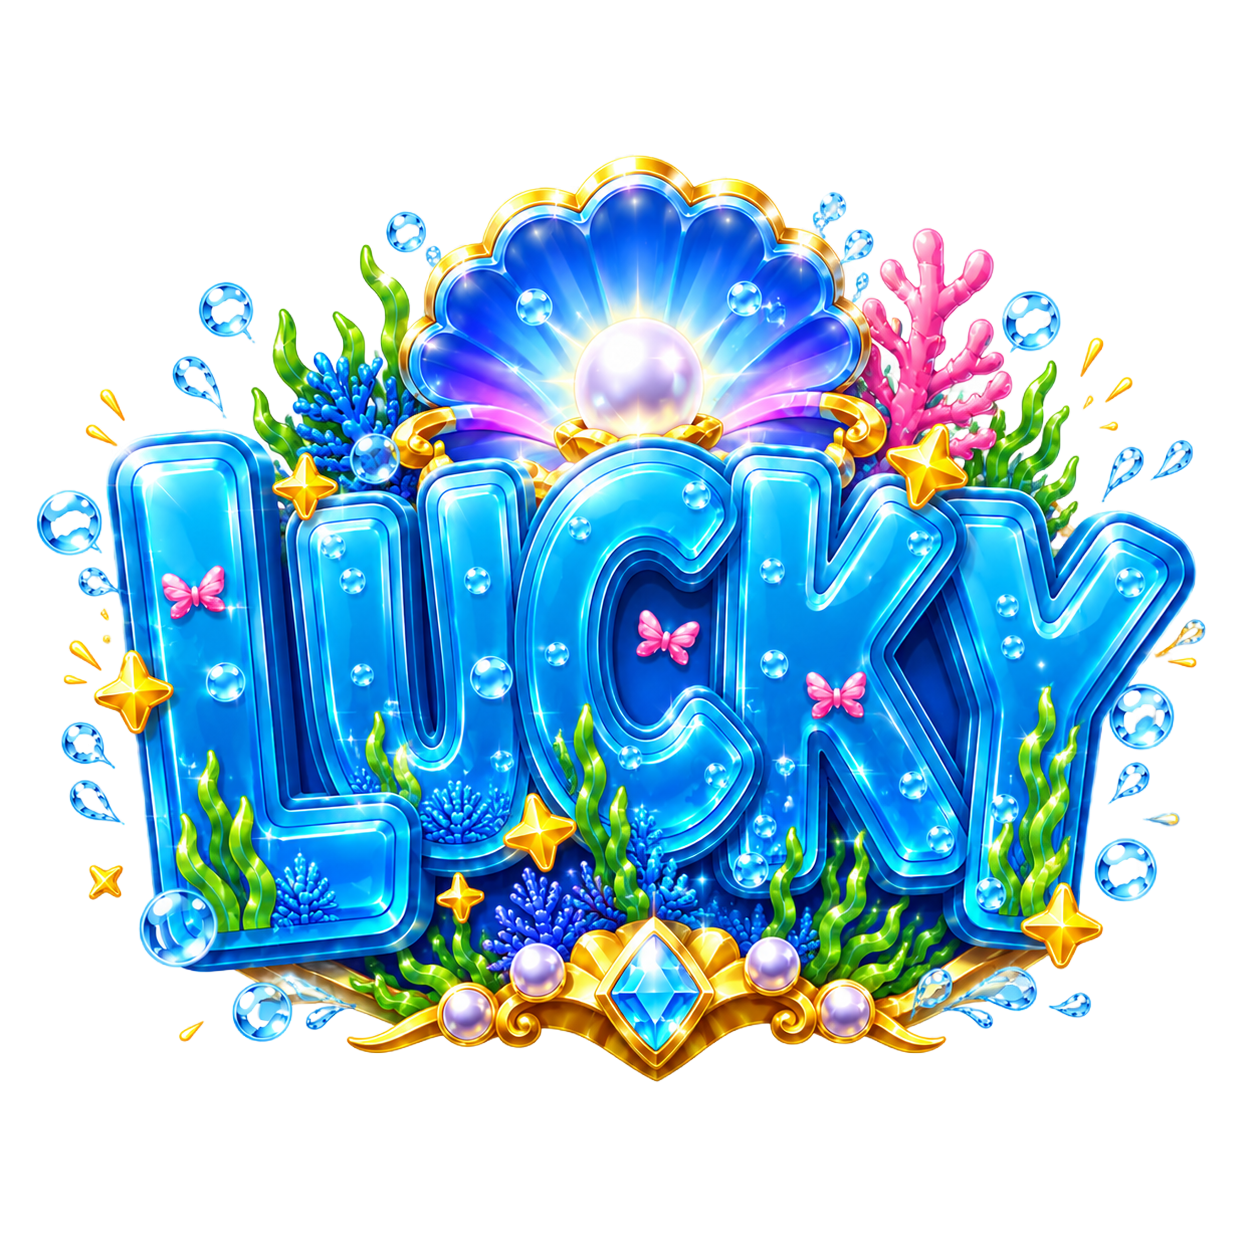
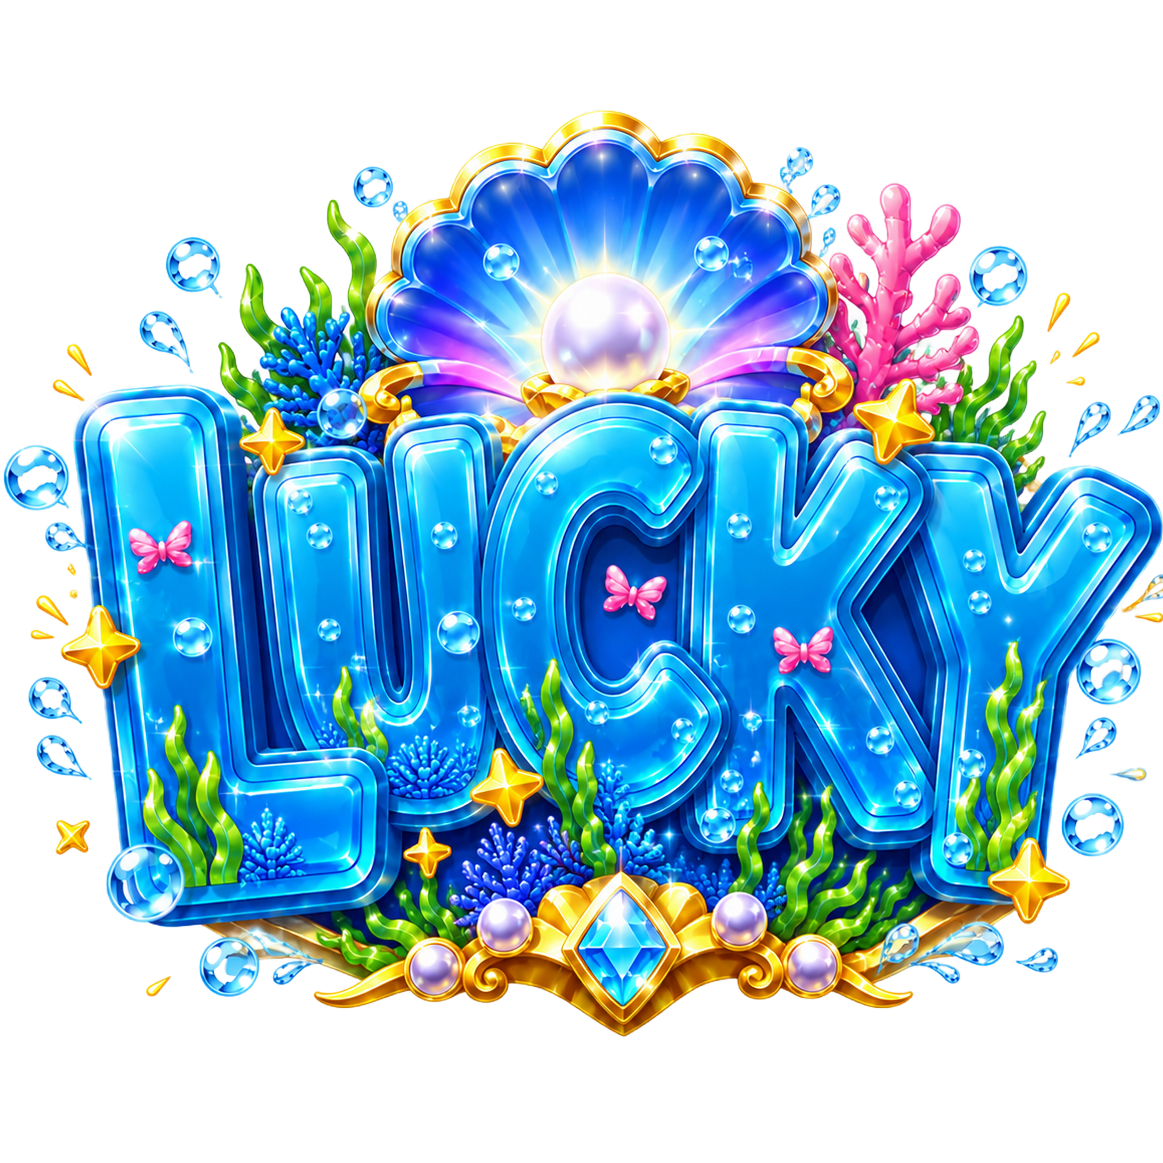
Refine Lucky visuals and timing

diff --git a/app/Arcade.tsx b/app/Arcade.tsx
@@ -6,6 +6,7 @@ import { PAYLINES, symbolFromRandom, type LuckyBonus, type SlotGrid, type SlotWi
 type Profile = { displayName: string; balance: number; demo: boolean; bonusClaimed?: boolean; promoClaimed?: boolean };
 type GameResult = Profile & { roll: number; won: boolean; delta: number };
 type SlotsResult = Profile & { grid: SlotGrid; wins: SlotWin[]; luckyBonus: LuckyBonus | null; payout: number; delta: number; bet: number };
+type LuckyCallout = { id: number; message: string; x: number; y: number; rotation: number; level: number };
 const START_GRID: SlotGrid = [["A", "K", "Q", "J", "10"], ["Q", "J", "10", "A", "K"], ["10", "A", "K", "Q", "J"]];
 const LINE_COLORS = ["#ffe06f", "#ff8fa7", "#80f0dd", "#9db7ff", "#f7a9ff"];
 
@@ -76,6 +77,7 @@ function PaylineCanvas({ wins }: { wins: SlotWin[] }) {
 export function Arcade() {
   const audioContextRef = useRef<AudioContext | null>(null);
   const luckyCountRef = useRef(0);
+  const luckyCalloutIdRef = useRef(0);
   const [profile, setProfile] = useState<Profile | null>(null);
   const [game, setGame] = useState<"slots" | "odd">("slots");
   const [choice, setChoice] = useState<"odd" | "even">("odd");
@@ -90,6 +92,7 @@ export function Arcade() {
   const [stoppedReels, setStoppedReels] = useState(5);
   const [luckyLandings, setLuckyLandings] = useState<Record<string, number>>({});
   const [luckyImpact, setLuckyImpact] = useState({ token: 0, level: 0 });
+  const [luckyCallouts, setLuckyCallouts] = useState<LuckyCallout[]>([]);
   const [suspenseLevel, setSuspenseLevel] = useState(0);
   const [bonusState, setBonusState] = useState<"idle" | "claiming" | "claimed">("idle");
   const [bonusMessage, setBonusMessage] = useState("");
@@ -163,7 +166,7 @@ export function Arcade() {
   async function spin() {
     playTone(260, .08, 0, "square", .025); playTone(390, .1, .07, "square", .025);
     luckyCountRef.current = 0;
-    setPlaying(true); setStoppedReels(0); setLuckyLandings({}); setLuckyImpact({ token: 0, level: 0 }); setSuspenseLevel(0); setGameError(""); setSlotsResult(null);
+    setPlaying(true); setStoppedReels(0); setLuckyLandings({}); setLuckyImpact({ token: 0, level: 0 }); setLuckyCallouts([]); setSuspenseLevel(0); setGameError(""); setSlotsResult(null);
     const startedAt = Date.now();
     let targetGrid: SlotGrid | null = null;
     let lockedReels = 0;
@@ -191,8 +194,14 @@ export function Arcade() {
             additions[cellKey] = luckyNumber;
             playLuckyHit(luckyNumber);
           });
+          const messages = ["OH, LUCKY YOU!", "DOUBLE TROUBLE!", "JACKPOT ENERGY!", "FORTUNE FAVORS YOU!", "ABSOLUTE BUFFOONERY!"];
+          const callouts = landedLuckies.map((_, luckyIndex) => {
+            const level = luckyCountRef.current + luckyIndex + 1;
+            return { id: ++luckyCalloutIdRef.current, message: messages[Math.min(level, messages.length) - 1], x: 14 + Math.random() * 72, y: 12 + Math.random() * 62, rotation: -12 + Math.random() * 24, level };
+          });
           luckyCountRef.current += landedLuckies.length;
           setLuckyLandings((current) => ({ ...current, ...additions }));
+          setLuckyCallouts((current) => [...current, ...callouts]);
           setLuckyImpact((current) => ({ token: current.token + 1, level: luckyCountRef.current }));
         }
         setStoppedReels(lockedReels);
@@ -200,7 +209,7 @@ export function Arcade() {
           reelIndex <= reel ? next.grid[rowIndex][reelIndex] : symbol
         )) as SlotGrid);
         if (reel < 4 && luckyCountRef.current > 0) {
-          const suspenseDelay = luckyCountRef.current >= 2 ? 1700 : 1150;
+          const suspenseDelay = luckyCountRef.current >= 2 ? 1700 : 350;
           setSuspenseLevel(luckyCountRef.current);
           if (luckyCountRef.current >= 2) playSuspenseSound(luckyCountRef.current, suspenseDelay);
           await new Promise((resolve) => window.setTimeout(resolve, suspenseDelay));
@@ -226,6 +235,7 @@ export function Arcade() {
 
   return <main className="site-shell">
     <div className="ambient" aria-hidden="true"><i /><i /><i /><i /><i /></div>
+    {luckyCallouts.map((callout) => <div className={`lucky-float-callout lucky-float-level-${Math.min(callout.level, 5)}`} key={callout.id} style={{ left: `${callout.x}%`, top: `${callout.y}%`, "--callout-rotation": `${callout.rotation}deg` } as React.CSSProperties} aria-hidden="true">{callout.message}</div>)}
     <button className={`bonus-bubble ${bonusState}`} type="button" onClick={() => void claimBonus()} disabled={bonusState !== "idle"} aria-label="Collect 30 bonus Suds"><span>{bonusState === "claiming" ? "…" : bonusState === "claimed" ? "✓" : "+30"}</span><small>{bonusMessage || "Suds"}</small></button>
     <header className="nav-shell"><a className="brand" href="#top" aria-label="BFNRY home"><span className="brand-mark"><b /></span><span><strong>BFNRY</strong><small>Whimsy online</small></span></a><nav aria-label="Primary navigation"><a className="active" href="#play">Play</a><a href="#pulse">Pulse</a><a href="#about">About</a></nav><div className="player-pill" aria-live="polite"><i /><span>{loading ? "Connecting…" : profile?.displayName ?? "Offline"}</span><strong>{profile ? `${profile.balance} Suds` : "—"}</strong></div></header>
     <section className="hero" id="top"><div className="hero-orbit" aria-hidden="true"><span /><span /><span /></div><p className="overline">Buffoonery Inc. Presents</p><h1>buffoonery,<br /><em>on the web</em></h1><p className="hero-copy">Magnus&apos; little haven for all buffoons to enjoy.</p><a className="hero-action" href="#play"><span>Enter the arcade</span><b>↓</b></a></section>
@@ -238,7 +248,7 @@ export function Arcade() {
         <div className="stage-head"><span>{PAYLINES.length} ways to make a splash</span><span>{suspenseLevel >= 2 ? "Hold your breath…" : slotsResult ? `${slotsResult.wins.length} line${slotsResult.wins.length === 1 ? "" : "s"} hit` : "Ready"}</span></div>
         <div className={`slot-machine ${playing ? "spinning" : ""} ${suspenseLevel >= 2 ? "lucky-suspense" : ""}`} aria-label="Three row by five reel slot result">
           <div className="slot-grid">{grid.map((row, rowIndex) => row.map((symbol, reelIndex) => { const cellKey = `${rowIndex}-${reelIndex}`; const luckyNumber = luckyLandings[cellKey]; return <div className={`slot-cell ${symbol === "LUCKY" ? "lucky" : ""} ${luckyNumber ? `lucky-landed lucky-level-${Math.min(luckyNumber, 5)}` : ""} ${playing && reelIndex >= stoppedReels ? "reel-spinning" : "reel-stopped"}`} key={cellKey}><img src={`/slots/${symbol}.png`} alt={playing && reelIndex >= stoppedReels ? "Spinning reel" : symbol} />{luckyNumber && <i className="lucky-starfield" aria-hidden="true" />}</div>; }))}</div>
-          {luckyImpact.level > 0 && <div className={`lucky-screen-hit lucky-screen-level-${Math.min(luckyImpact.level, 5)}`} key={luckyImpact.token} aria-hidden="true"><b>LUCKY!</b><span>#{luckyImpact.level}</span></div>}
+          {luckyImpact.level > 0 && <div className={`lucky-screen-hit lucky-screen-level-${Math.min(luckyImpact.level, 5)}`} key={luckyImpact.token} aria-hidden="true" />}
           {suspenseLevel >= 2 && <div className="suspense-vignette" aria-hidden="true"><span>{suspenseLevel} LUCKIES…</span></div>}
           {slotsResult?.wins.length ? <PaylineCanvas wins={slotsResult.wins} /> : null}
         </div>

diff --git a/app/slots.css b/app/slots.css
@@ -3,7 +3,7 @@
 .slots-space{grid-template-columns:.58fr 1.65fr;max-width:1180px}.slot-stage{padding:24px}.slot-machine{position:relative;padding:7px;border:1px solid rgba(255,255,255,.64);border-radius:23px;background:rgba(20,91,143,.28);box-shadow:inset 0 2px 14px rgba(22,77,124,.25),0 8px 24px rgba(20,77,124,.15);overflow:hidden}.slot-grid{display:grid;grid-template-columns:repeat(5,1fr);gap:5px}.slot-cell{aspect-ratio:1.05;display:grid;place-items:center;border-radius:15px;background:linear-gradient(145deg,#fff,#dcf6f6);box-shadow:inset 0 1px white,0 2px 6px rgba(20,75,118,.14);overflow:hidden}.slot-cell img{width:78%;height:78%;object-fit:contain;filter:drop-shadow(0 4px 4px rgba(24,78,115,.16))}.payline-canvas{position:absolute;inset:7px;width:calc(100% - 14px);height:calc(100% - 14px);pointer-events:none}.spinning .slot-cell img{animation:reel-blur .32s linear infinite}
 .bet-bar{margin:13px 0 9px;display:flex;align-items:center;justify-content:center;gap:8px;color:#daf7fc}.bet-bar>span{font-size:8px;font-weight:800;letter-spacing:1.3px;margin-right:4px}.bet-bar button{width:31px;height:31px;border:1px solid rgba(255,255,255,.62);border-radius:50%;background:rgba(255,255,255,.2);color:white;font-size:17px;cursor:pointer}.bet-bar button:disabled{opacity:.35}.bet-bar strong{min-width:92px;padding:8px 13px;border-radius:16px;background:rgba(255,255,255,.93);color:#367d9b;text-align:center;font-size:14px}.bet-bar strong small{font-size:7px;letter-spacing:.6px}.slot-spin{height:52px}
 .slot-summary{margin-top:11px;padding:12px;border:1px solid rgba(255,255,255,.46);border-radius:18px;background:rgba(255,255,255,.2);color:white}.slot-summary>div:first-child{display:grid;grid-template-columns:1fr auto;align-items:end;gap:0 10px}.slot-summary>div:first-child small{grid-column:1;font-size:7px;letter-spacing:1.2px;color:#c9edf4}.slot-summary>div:first-child strong{grid-column:1;font:800 19px "Nunito"}.slot-summary>div:first-child span{grid-column:2;grid-row:1/3;font-size:8px;color:#d8f3f6}.win-list{max-height:112px;margin-top:9px;display:grid;grid-template-columns:repeat(2,1fr);gap:5px;overflow:auto}.win-chip{display:grid;grid-template-columns:1fr auto auto;gap:3px 8px;align-items:center;padding:7px 9px;border-left:4px solid var(--line-color);border-radius:9px;background:rgba(255,255,255,.9);color:#477f95;font-style:normal}.win-chip b{font-size:7px;letter-spacing:.7px}.win-chip span{grid-row:2;font-size:8px}.win-chip strong{grid-column:2;grid-row:1/3;font-size:12px}.win-chip em{grid-column:3;grid-row:1/3;font-size:10px;font-weight:800;font-style:normal;color:#2b9a83}.pay-hint{text-align:center;margin:10px 0 0;color:#d7f4f8;font-size:8px}.slots-space .game-intro{padding-left:18px;padding-right:18px}
-.slot-cell.lucky{background:radial-gradient(circle at 50% 38%,#fffde0,#ffe4f7 52%,#bcecff);box-shadow:inset 0 1px white,0 0 16px rgba(255,228,93,.75)}.slot-cell.lucky img{width:90%;height:90%;filter:drop-shadow(0 0 7px rgba(255,197,52,.7))}
+.slot-cell.lucky{background:radial-gradient(circle at 50% 38%,#fffde0,#ffe4f7 52%,#bcecff);box-shadow:inset 0 1px white,0 0 16px rgba(255,228,93,.75)}.slot-cell.lucky img{width:100%;height:100%;transform:scale(1.55);filter:drop-shadow(0 0 7px rgba(255,197,52,.7))}
 .slot-cell.lucky-landed{z-index:2;animation:lucky-impact .8s cubic-bezier(.18,.89,.32,1.35)}.slot-cell.lucky-landed::before,.slot-cell.lucky-landed::after{content:"";position:absolute;inset:-35%;pointer-events:none}.slot-cell.lucky-landed::before{border:4px solid rgba(255,255,255,.95);border-radius:50%;box-shadow:0 0 18px #fff36d,0 0 34px #ff80d5;animation:lucky-ring 1s ease-out both}.slot-cell.lucky-landed::after{background:repeating-conic-gradient(from 7deg,rgba(255,245,97,.95) 0 4deg,transparent 4deg 18deg,rgba(109,231,255,.9) 18deg 22deg,transparent 22deg 36deg);mask:radial-gradient(circle,transparent 0 28%,#000 30% 48%,transparent 50%);animation:lucky-rays 1.15s ease-out both}.slot-cell.lucky-landed img{position:relative;z-index:1;animation:lucky-symbol-pop .9s cubic-bezier(.18,.89,.32,1.5)}
 .slot-summary.lucky-win{border-color:#fff3a5;background:linear-gradient(145deg,rgba(255,219,89,.35),rgba(255,143,209,.24),rgba(109,224,255,.3));box-shadow:0 0 24px rgba(255,226,99,.35)}.slot-summary .lucky-bonus{margin:-5px -5px 11px;padding:12px;border:1px solid rgba(255,255,255,.65);border-radius:13px;background:rgba(255,255,255,.9);color:#b66b98;text-align:center}.slot-summary .lucky-bonus small{display:block;font-size:7px;font-weight:900;letter-spacing:1.5px;color:#5a9eb4}.slot-summary .lucky-bonus strong{display:block;font:900 21px "Nunito";color:#d16a9e;text-shadow:0 2px #fff}.slot-summary .lucky-bonus span{font-size:8px;font-weight:800;color:#4d91aa}
 .slot-cell.lucky-landed{position:relative;overflow:visible}
@@ -11,9 +11,10 @@
 .lucky-screen-hit{position:absolute;z-index:4;inset:0;display:grid;place-content:center;pointer-events:none;background:radial-gradient(circle,rgba(255,255,255,.9),rgba(255,235,75,.35) 25%,rgba(255,87,209,.18) 48%,transparent 70%);text-align:center;animation:lucky-screen-flash .9s ease-out both}.lucky-screen-hit::before{content:"";position:absolute;inset:8%;border:5px solid rgba(255,255,255,.92);border-radius:28px;box-shadow:inset 0 0 35px #ffec61,0 0 30px #70edff;animation:lucky-board-ring .9s ease-out both}.lucky-screen-hit b{font:900 clamp(28px,7vw,66px) "Nunito";letter-spacing:4px;color:white;-webkit-text-stroke:2px #dc68a6;text-shadow:0 4px #8e4ba7,0 0 18px #fff76d;animation:lucky-word-punch .7s cubic-bezier(.18,.89,.32,1.5) both}.lucky-screen-hit span{font:900 13px "Nunito";letter-spacing:3px;color:#755399}.lucky-screen-level-3 b,.lucky-screen-level-4 b,.lucky-screen-level-5 b{font-size:clamp(38px,9vw,82px);text-shadow:0 5px #8e4ba7,0 0 28px #fff76d,0 0 48px #ff6ecb}
 .slot-machine.lucky-suspense{animation:suspense-machine-pulse .38s ease-in-out infinite alternate}.suspense-vignette{position:absolute;z-index:3;inset:0;display:grid;place-items:end center;padding-bottom:8px;pointer-events:none;background:radial-gradient(circle,transparent 38%,rgba(25,30,90,.48) 100%);box-shadow:inset 0 0 35px rgba(255,81,196,.42);animation:suspense-vignette-pulse .55s ease-in-out infinite alternate}.suspense-vignette span{padding:5px 10px;border-radius:12px;background:rgba(35,33,94,.72);color:#fff8a4;font-size:8px;font-weight:900;letter-spacing:1.5px;text-shadow:0 0 8px #ff72d0}
 .slot-cell.lucky-landed,.lucky-screen-hit{animation-duration:1.05s}
+.lucky-float-callout{position:fixed;z-index:50;max-width:min(76vw,430px);pointer-events:none;transform:translate(-50%,-50%) rotate(var(--callout-rotation));font:900 clamp(24px,5vw,58px) "Nunito";line-height:.92;letter-spacing:1px;color:#fff;-webkit-text-stroke:2px #9e5ab0;text-align:center;text-shadow:0 4px 0 #72468f,0 0 12px #fff67b,0 0 30px #ff6ecb;animation:lucky-callout-float 2.6s cubic-bezier(.18,.89,.32,1.3) both}.lucky-float-level-2{color:#fff889}.lucky-float-level-3,.lucky-float-level-4,.lucky-float-level-5{font-size:clamp(31px,7vw,76px);color:#fff3a4;text-shadow:0 5px 0 #7b3d9b,0 0 18px white,0 0 42px #ff58c7}
 @keyframes reel-blur{50%{transform:translateY(5px);filter:blur(2px);opacity:.65}}
 @keyframes lucky-impact{0%{transform:scale(.72) rotate(-7deg);filter:brightness(2.2)}35%{transform:scale(1.16) rotate(4deg);box-shadow:0 0 34px #fff45f,0 0 58px #ff73d0}65%{transform:scale(.96) rotate(-2deg)}100%{transform:scale(1) rotate(0)}}
-@keyframes lucky-symbol-pop{0%{transform:scale(.35) rotate(-18deg);opacity:.2}38%{transform:scale(1.24) rotate(8deg);opacity:1}65%{transform:scale(.92) rotate(-3deg)}100%{transform:scale(1) rotate(0)}}
+@keyframes lucky-symbol-pop{0%{transform:scale(.4) rotate(-18deg);opacity:.2}38%{transform:scale(1.95) rotate(8deg);opacity:1}65%{transform:scale(1.42) rotate(-3deg)}100%{transform:scale(1.55) rotate(0)}}
 @keyframes lucky-ring{0%{transform:scale(.12);opacity:1}70%{opacity:.8}100%{transform:scale(1.4);opacity:0}}
 @keyframes lucky-rays{0%{transform:scale(.15) rotate(-25deg);opacity:1}100%{transform:scale(1.5) rotate(35deg);opacity:0}}
 @keyframes lucky-stars{0%{transform:scale(.2) rotate(-20deg);opacity:0}22%{opacity:1}100%{transform:scale(1.7) rotate(40deg);opacity:0}}
@@ -22,6 +23,7 @@
 @keyframes lucky-word-punch{0%{transform:scale(.1) rotate(-8deg);opacity:0}48%{transform:scale(1.18) rotate(3deg);opacity:1}72%{transform:scale(.94) rotate(-1deg)}100%{transform:scale(1);opacity:1}}
 @keyframes suspense-machine-pulse{from{transform:scale(1);filter:saturate(1)}to{transform:scale(1.012);filter:saturate(1.28) brightness(1.08)}}
 @keyframes suspense-vignette-pulse{from{opacity:.58}to{opacity:1}}
-@media(prefers-reduced-motion:reduce){.slot-cell.lucky-landed,.slot-cell.lucky-landed img,.slot-cell.lucky-landed::before,.slot-cell.lucky-landed::after,.lucky-starfield,.lucky-screen-hit,.lucky-screen-hit::before,.lucky-screen-hit b,.slot-machine.lucky-suspense,.suspense-vignette{animation-duration:.01ms}}
+@keyframes lucky-callout-float{0%{transform:translate(-50%,-35%) rotate(var(--callout-rotation)) scale(.18);opacity:0}18%{transform:translate(-50%,-50%) rotate(var(--callout-rotation)) scale(1.18);opacity:1}32%{transform:translate(-50%,-50%) rotate(var(--callout-rotation)) scale(.96);opacity:1}70%{transform:translate(-50%,-62%) rotate(var(--callout-rotation)) scale(1);opacity:1}100%{transform:translate(-50%,-105%) rotate(var(--callout-rotation)) scale(1.06);opacity:0}}
+@media(prefers-reduced-motion:reduce){.slot-cell.lucky-landed,.slot-cell.lucky-landed img,.slot-cell.lucky-landed::before,.slot-cell.lucky-landed::after,.lucky-starfield,.lucky-screen-hit,.lucky-screen-hit::before,.lucky-screen-hit b,.lucky-float-callout,.slot-machine.lucky-suspense,.suspense-vignette{animation-duration:.01ms}}
 @media(max-width:900px){.slots-space{grid-template-columns:1fr}.slots-space .game-intro{padding:25px}.slot-cell{border-radius:12px}}
 @media(max-width:520px){.game-tabs{margin-left:8px;margin-right:8px}.slot-stage{padding:15px 9px}.slot-machine{padding:4px;border-radius:16px}.slot-grid{gap:3px}.slot-cell{border-radius:8px}.payline-canvas{inset:4px;width:calc(100% - 8px);height:calc(100% - 8px)}.win-list{grid-template-columns:1fr}.slot-summary>div:first-child span{display:none}}